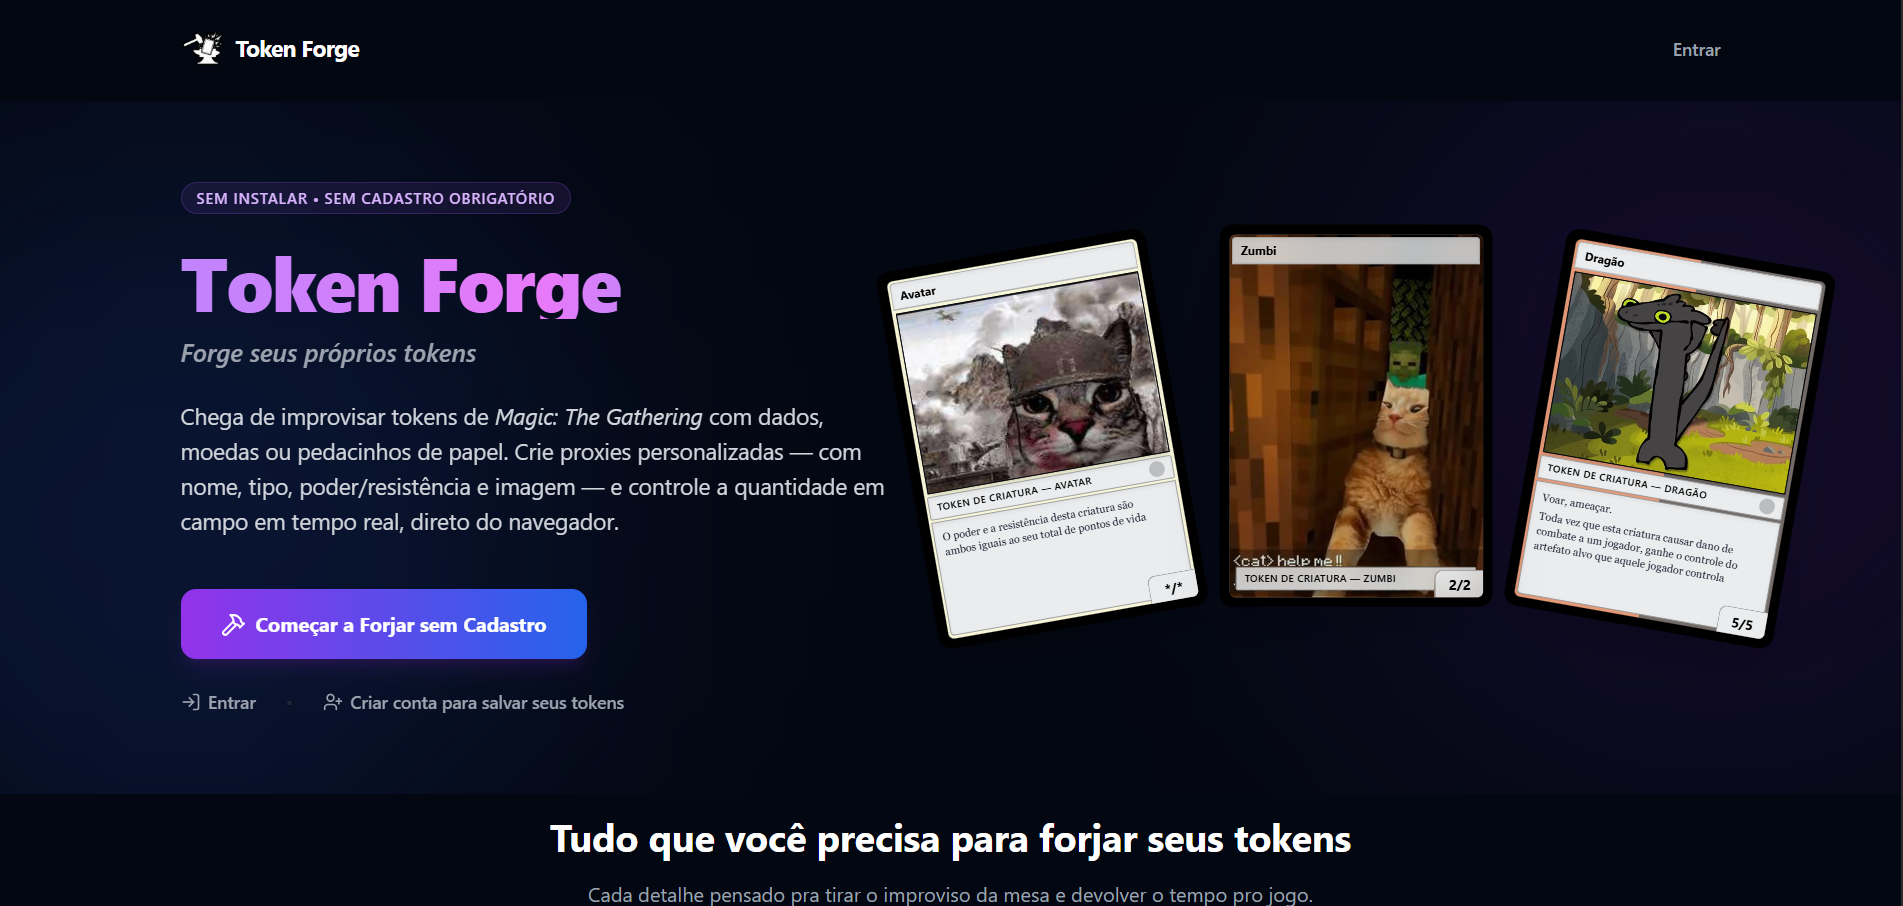
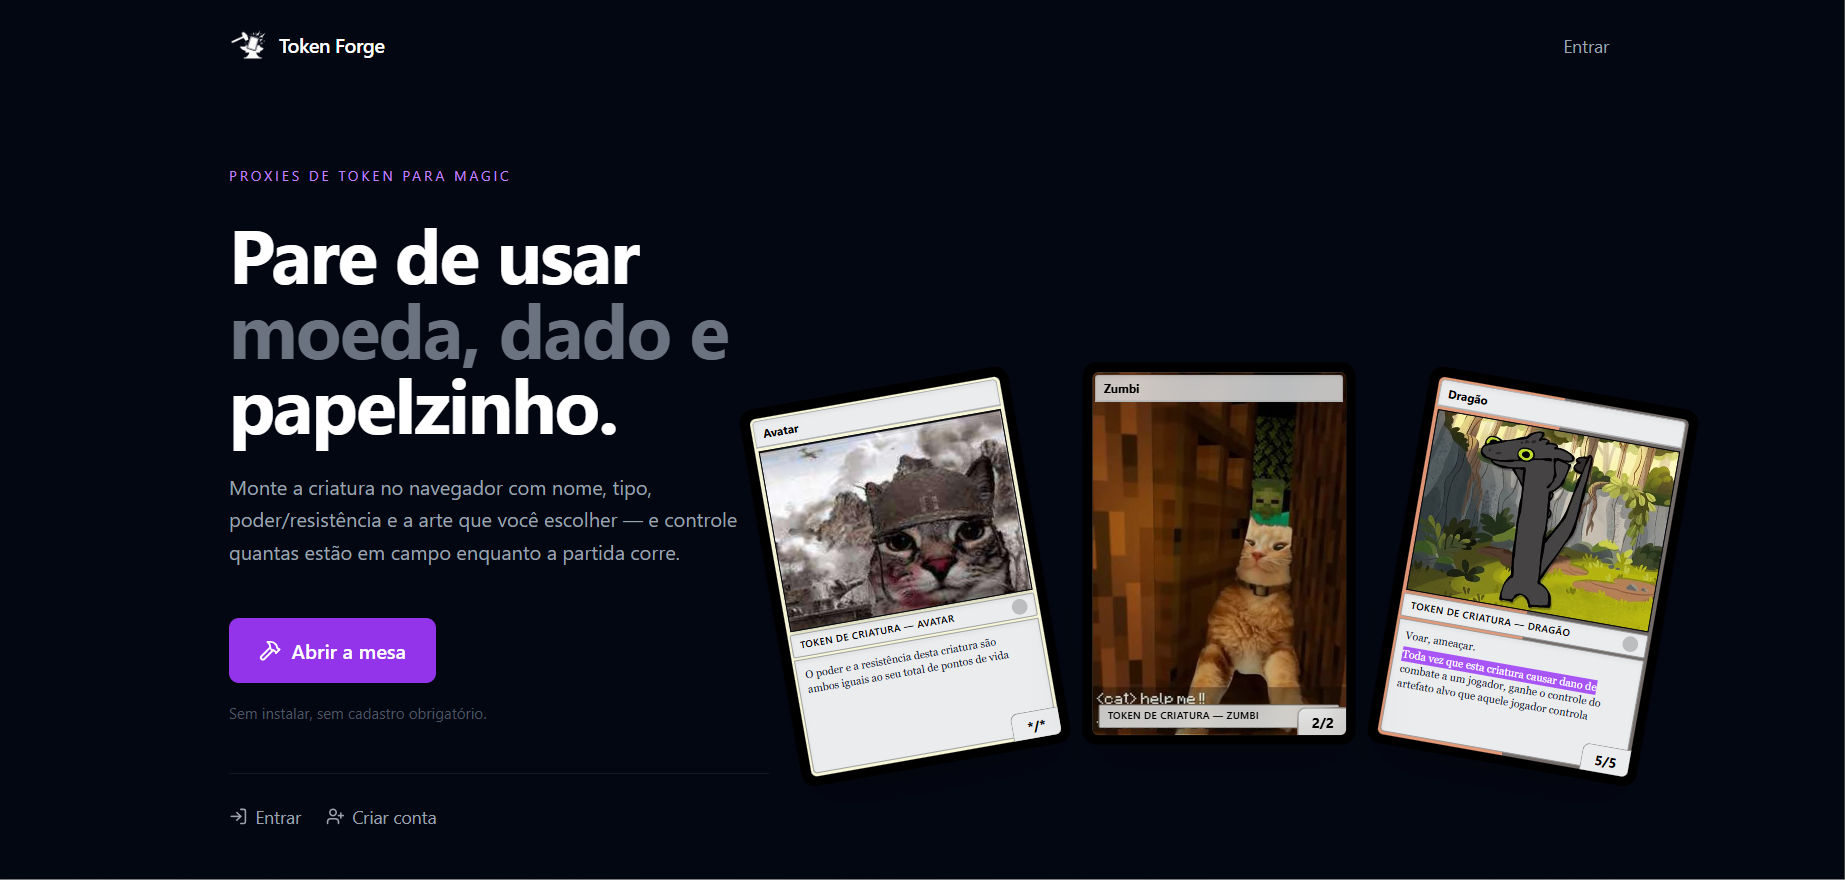
Alteração no Link Whatsapp e Alteração de imagem

diff --git a/src/components/ContactSection/ContactSection.tsx b/src/components/ContactSection/ContactSection.tsx
@@ -49,7 +49,7 @@ const ContactSection = () => {
                     </a>
 
                     <a
-                        href="https://wa.me/5551992000475"
+                        href="https://wa.link/pxm6md"
                         target="_blank"
                         rel="noreferrer"
                         className="btn-contact-icon"
